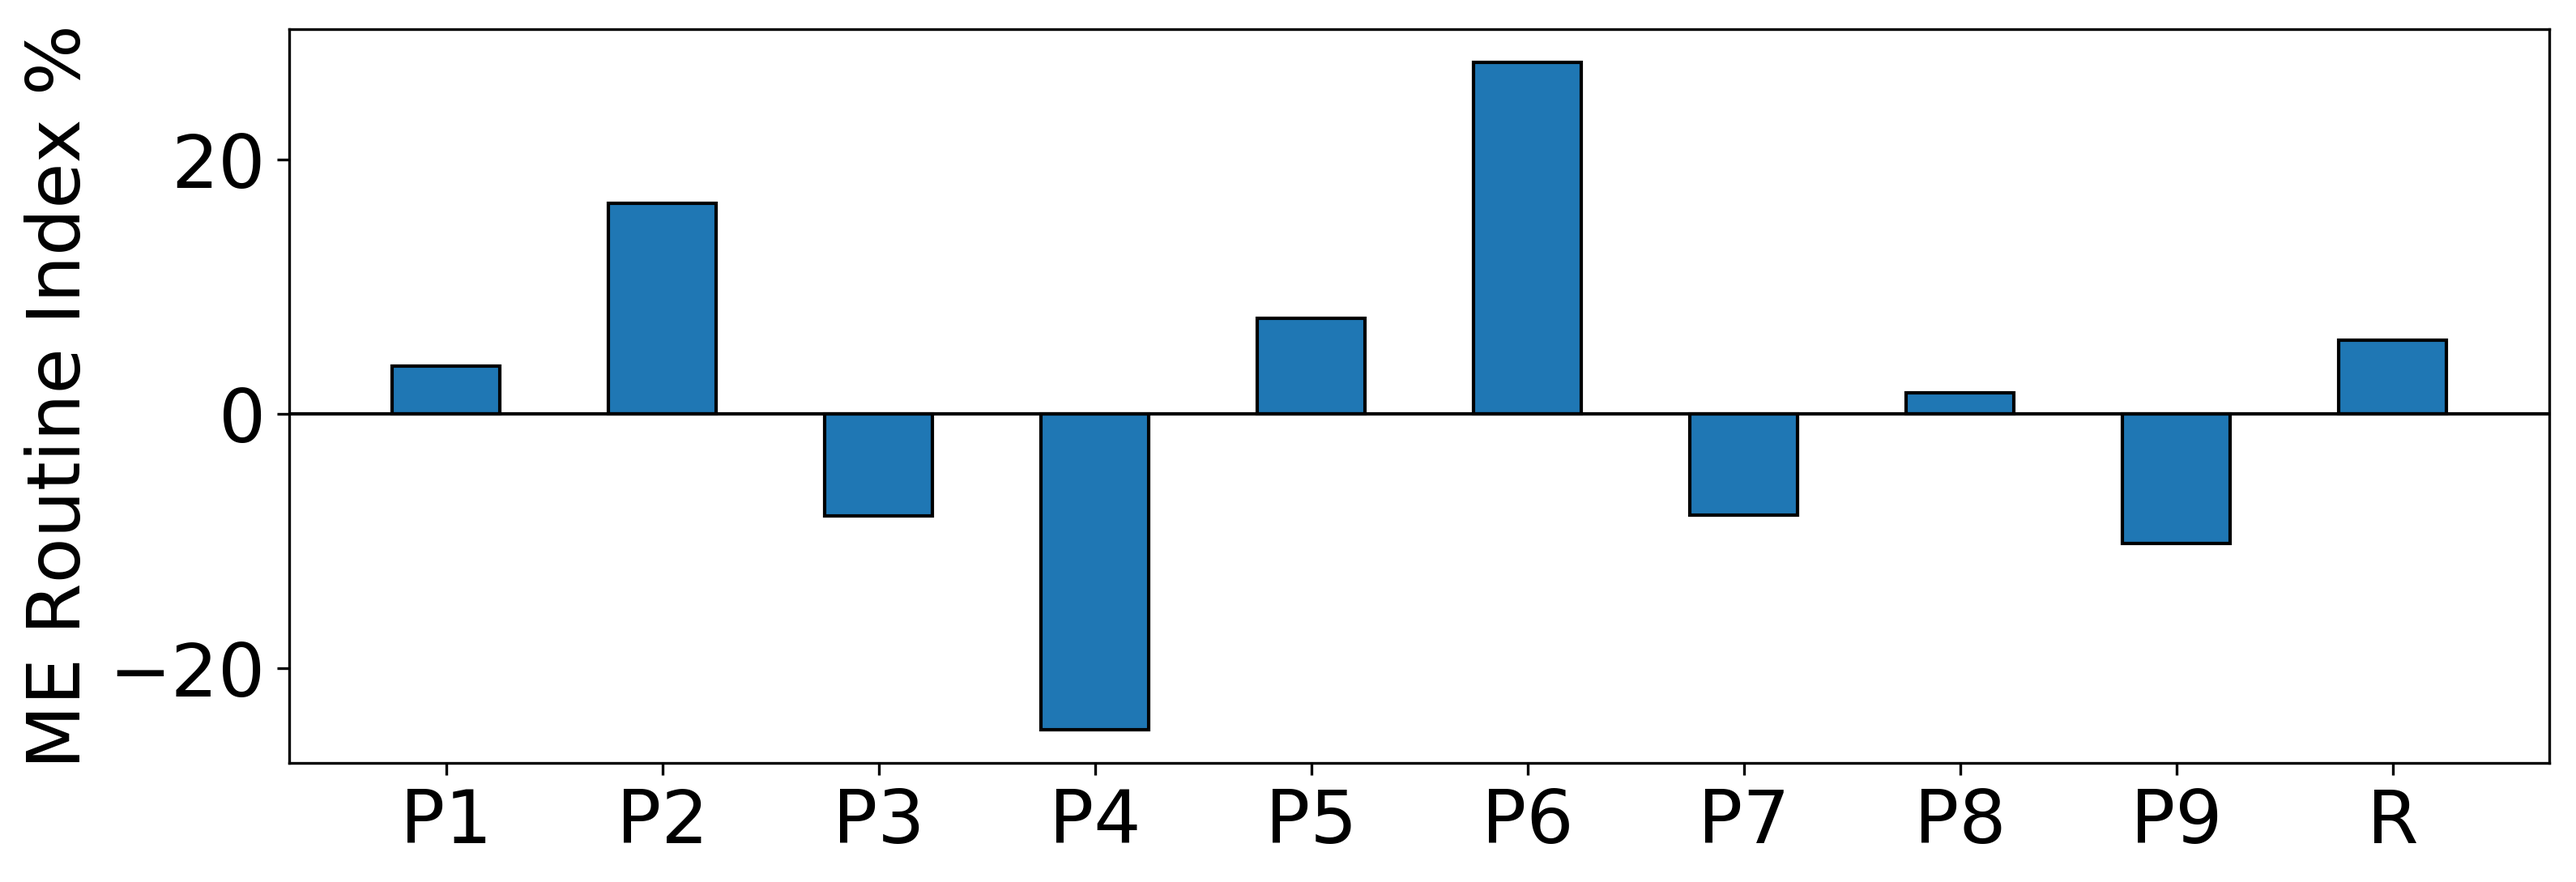
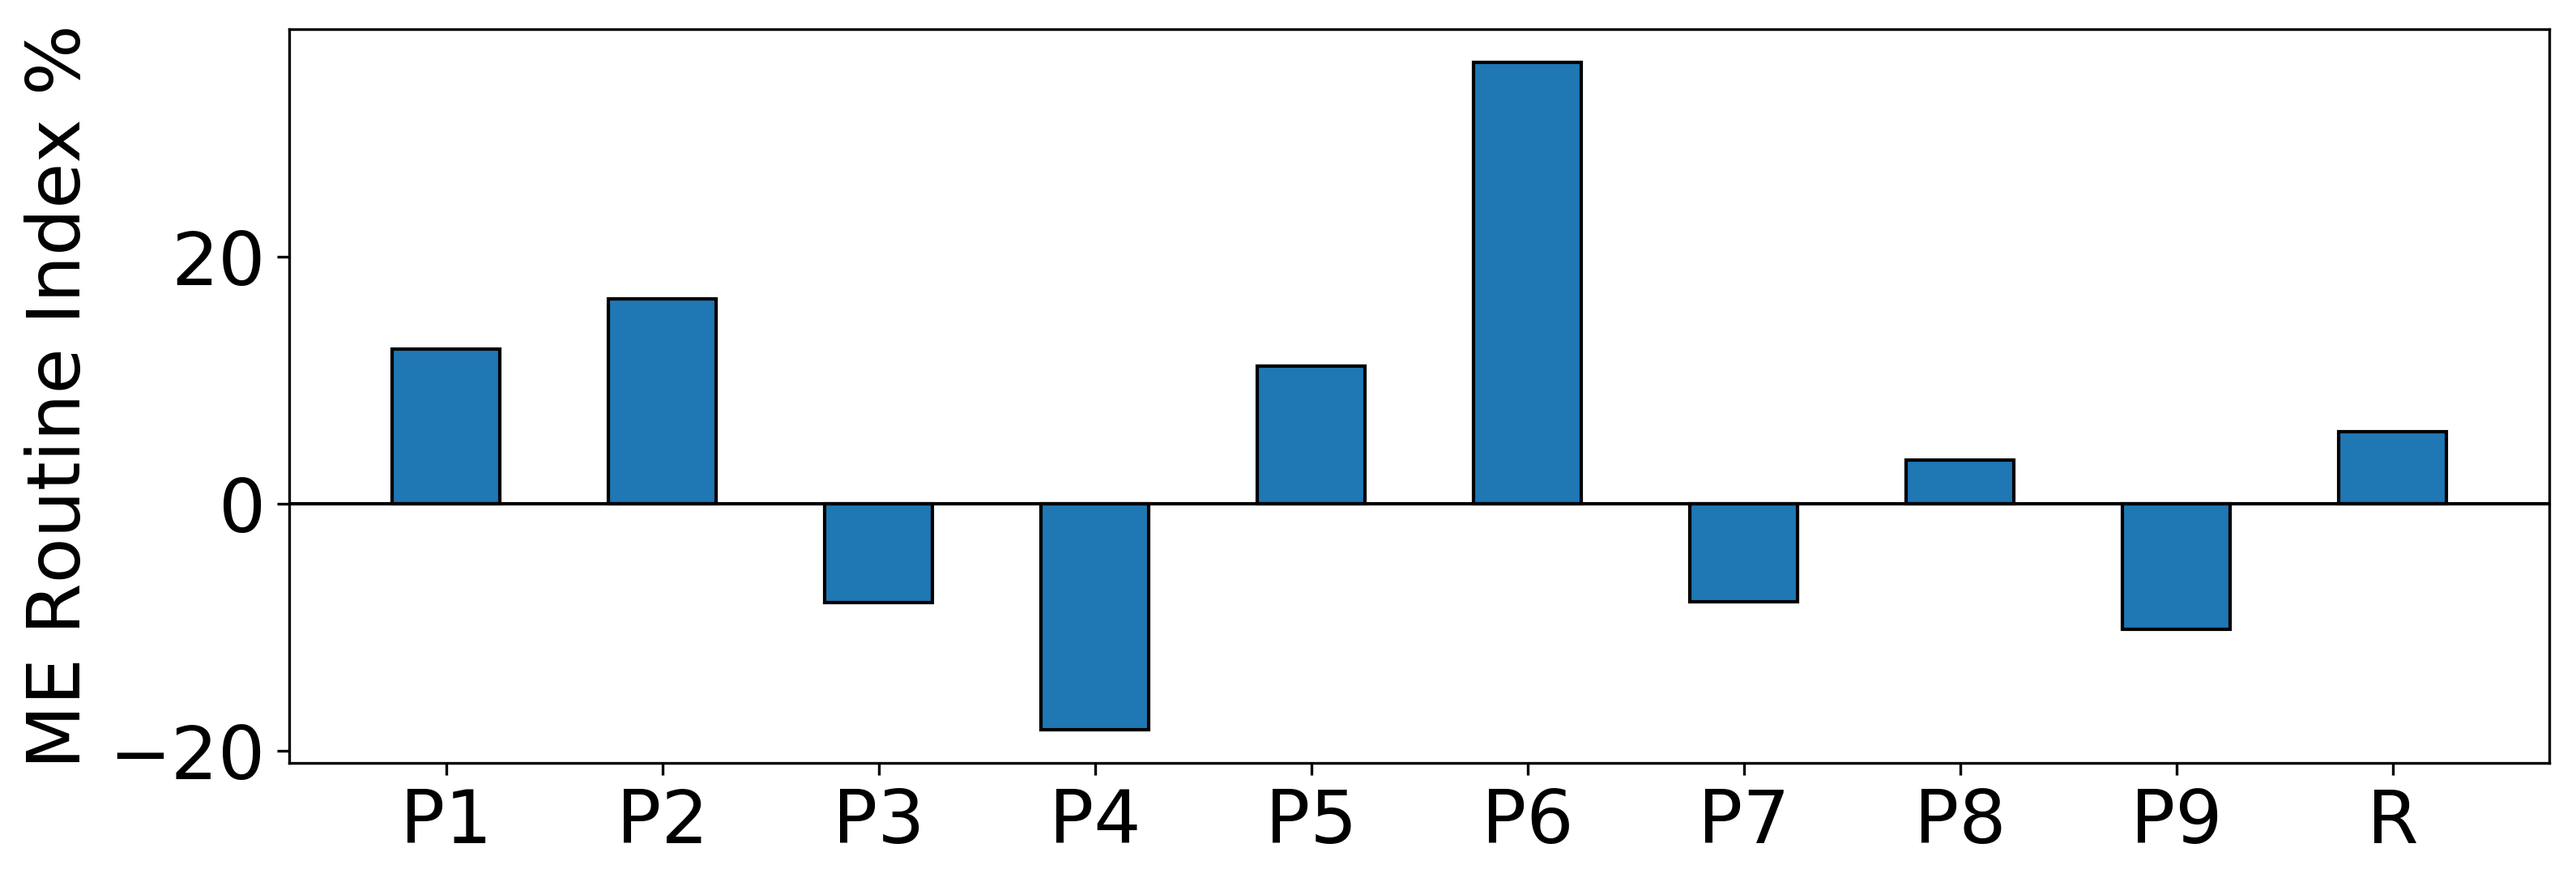
Updates from Overleaf

diff --git a/chapters/07-discussion/071-data-analysis.tex b/chapters/07-discussion/071-data-analysis.tex
@@ -1,5 +1,40 @@
 \section{Data Analysis of Study}
+Table for number of points per day per participant etc
+The number of valid days for a specific feature is a day for which the user gave answers, and the feature could be calculated. If the user for example turned off their phone during the night, the home stay feature could not be calculated, but the routine index feature and the number of places will likely still have been calculated.
+
+\begin{figure}
+    \centering
+    \includegraphics[0.5\textwidth]{images/study/n_places.png}
+    \includegraphics[0.5\textwidth]{images/study/n_homestay.png}
+    \includegraphics[0.5\textwidth]{images/study/n_routine.png}
+    \caption{The number of valid days for each participant}
+    \label{fig:plot-daily}
+\end{figure}
+
+The day-by-day results for the author are displayed in figure \ref{fig:plot-daily}.
+
+\begin{figure}
+    \centering
+    \includegraphics[0.5\textwidth]{images/study/places_d6b2d9b9-398b-4e0d-b52b-224747f515c8.png}
+    \includegraphics[0.5\textwidth]{images/study/homestay_d6b2d9b9-398b-4e0d-b52b-224747f515c8.png}
+    \includegraphics[0.5\textwidth]{images/study/routine_d6b2d9b9-398b-4e0d-b52b-224747f515c8.png}
+    \caption{The answered and calculated data for each day, for the author}
+    \label{fig:plot-daily}
+\end{figure}
+
+To say something about whether or not the algorithms undershoots or overshoots, the difference in sum was calculated as $E = \frac{\sum(A) - \sum(F)}{N}$ ($N$ being the total number of days for the specific feature) meaning that if the result is positive then the answered result was on average higher and vice versa if the result is negative. 
+
+\begin{figure}
+    \centering
+    \includegraphics[0.5\textwidth]{images/study/me_places.png}
+    \includegraphics[0.5\textwidth]{images/study/me_homestay.png}
+    \includegraphics[0.5\textwidth]{images/study/me_routine.png}
+    \caption{The number of data points in terms of days which could be evaluated, for each participant}
+    \label{fig:plot-mean-error}
+\end{figure}
+
 errors and accuracy 
 Participant answers are not ground truth
 Its better to consistently under-shoot, that to oscillate
+Registering during the night
 home stay undershoots often

diff --git a/chapters/05-flutter-implementation/053-api-usage.tex b/chapters/05-flutter-implementation/053-api-usage.tex
@@ -1,16 +1,2 @@
 \section{Main Algorithm}
 For the package to work there needs to be a main algorithm which collected data, stored data on disk and computes the features when necessary. This algorithm is not implemented by the package itself, but rather by an application that uses the package. The reason for this is that the algorithm contains many steps which can be done in many ways according to what the application programmer is already using. For example, if an application programmer uses a local SQLite database to store other data, then it is ideal to use this database for storing the location data and intermediate features as well.
-
-\begin{minted}{python}
-collect_data_continuously()
-on data_point:
-	save_to_disk(data_point)
-	if trigger:
-        points = load_todays_data_from_disk()
-		stops_hist, moves_hist = load_from_disk()
-		stops = stops_hist + find_stops(points)
-		moves = moves_hist + find_moves(stops, points)
-		features = feature_extraction(stops, places, moves)
-		# do something with the features
-		save_to_disk(stops, moves)
-\end{minted}

diff --git a/chapters/05-flutter-implementation/052-package-implementation.tex b/chapters/05-flutter-implementation/052-package-implementation.tex
@@ -116,22 +116,12 @@ A concrete implementation is by the Stop class, which looks as follows:
 class Stop implements Serializable, Geospatial { 
     ...
     /// Serialize to json
-    Map<String, dynamic> toJson() => {
-        "centroid": location.toJson(),
-        "place_id": placeId,
-        "arrival": arrival.millisecondsSinceEpoch,
-        "departure": departure.millisecondsSinceEpoch
-    };
+    Map<String, dynamic> toJson() => { ... };
 
     /// De-serialize from json
     factory Stop.fromJson(Map<String, dynamic> json) {
-        return Stop(
-            Location.fromJson(json['centroid']),
-            DateTime.fromMillisecondsSinceEpoch(json['arrival']),
-            DateTime.fromMillisecondsSinceEpoch(json['departure']),
-            placeId: json['place_id']);
+        return Stop( ... );
     }
-    ...
 }
 \end{minted}
 
